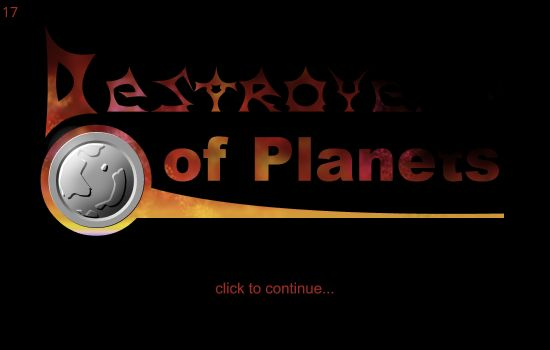
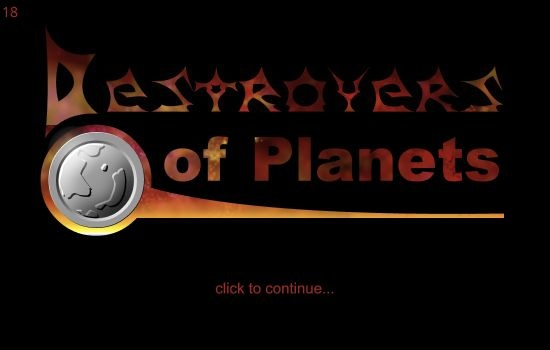
Polish cup prize text and brighten Destroyers of Planets label

diff --git a/web/house.js b/web/house.js
@@ -123,9 +123,8 @@ export async function createHouse({ onOpen = () => {}, onExit = () => {}, onRoom
     const cartridge=el('figure','house-found-cartridge'),image=el('img');
     image.src='/games/bonus/destroyers-of-planets/title-screen.jpg';image.alt='Destroyers of Planets cartridge';
     cartridge.append(image);modalBody.append(cartridge);
-    modalBody.append(el('p','','You followed the ball all the way to ten cups! You earned Destroyers of Planets, an old unfinished demo rescued from the Wayback Machine.'));
+    modalBody.append(el('p','','Beneath the final cup, you found an old cartridge filled with spiderwebs. Wiping it off, a label with the words "Destroyers of Planets" was revealed...'));
     modalBody.append(el('p','house-discovery','Your cartridge will be waiting on the den table when you return. Insert it into the console to play.'));
-    modalBody.append(el('p','','Arrow keys move. A runs or interacts, S changes weapons, and D changes characters.'));
   }
   function showJournal() {
     if (!data) return;

diff --git a/games/bonus/destroyers-of-planets/README.md b/games/bonus/destroyers-of-planets/README.md
@@ -9,6 +9,10 @@ https://web.archive.org/web/20070302105618id_/http://jiggmin.com/DoP29.swf
 `game.swf` is unmodified. Its byte length, SHA-256 and SWF header metadata are in
 `data/bonus-games.json`. `title-screen.jpg` is a browser screenshot of the original
 550 × 350 title screen rendered with the project's vendored Ruffle, not recreated art.
+Eight frames were captured with a one-second delay between captures. The label uses
+frame 8 with lighten overlays from frames 1 and 6 over the top word (x=35, y=20,
+475 × 105 pixels), retaining the brighter original highlights in “Destroyers”.
+The rest of the image uses frame 8. No lettering was redrawn.
 Use `/tests/fixtures/destroyers-of-planets.html` on the source preview to inspect it.
 
 Arrow keys move; A runs/interacts; S changes weapons; D changes characters.
